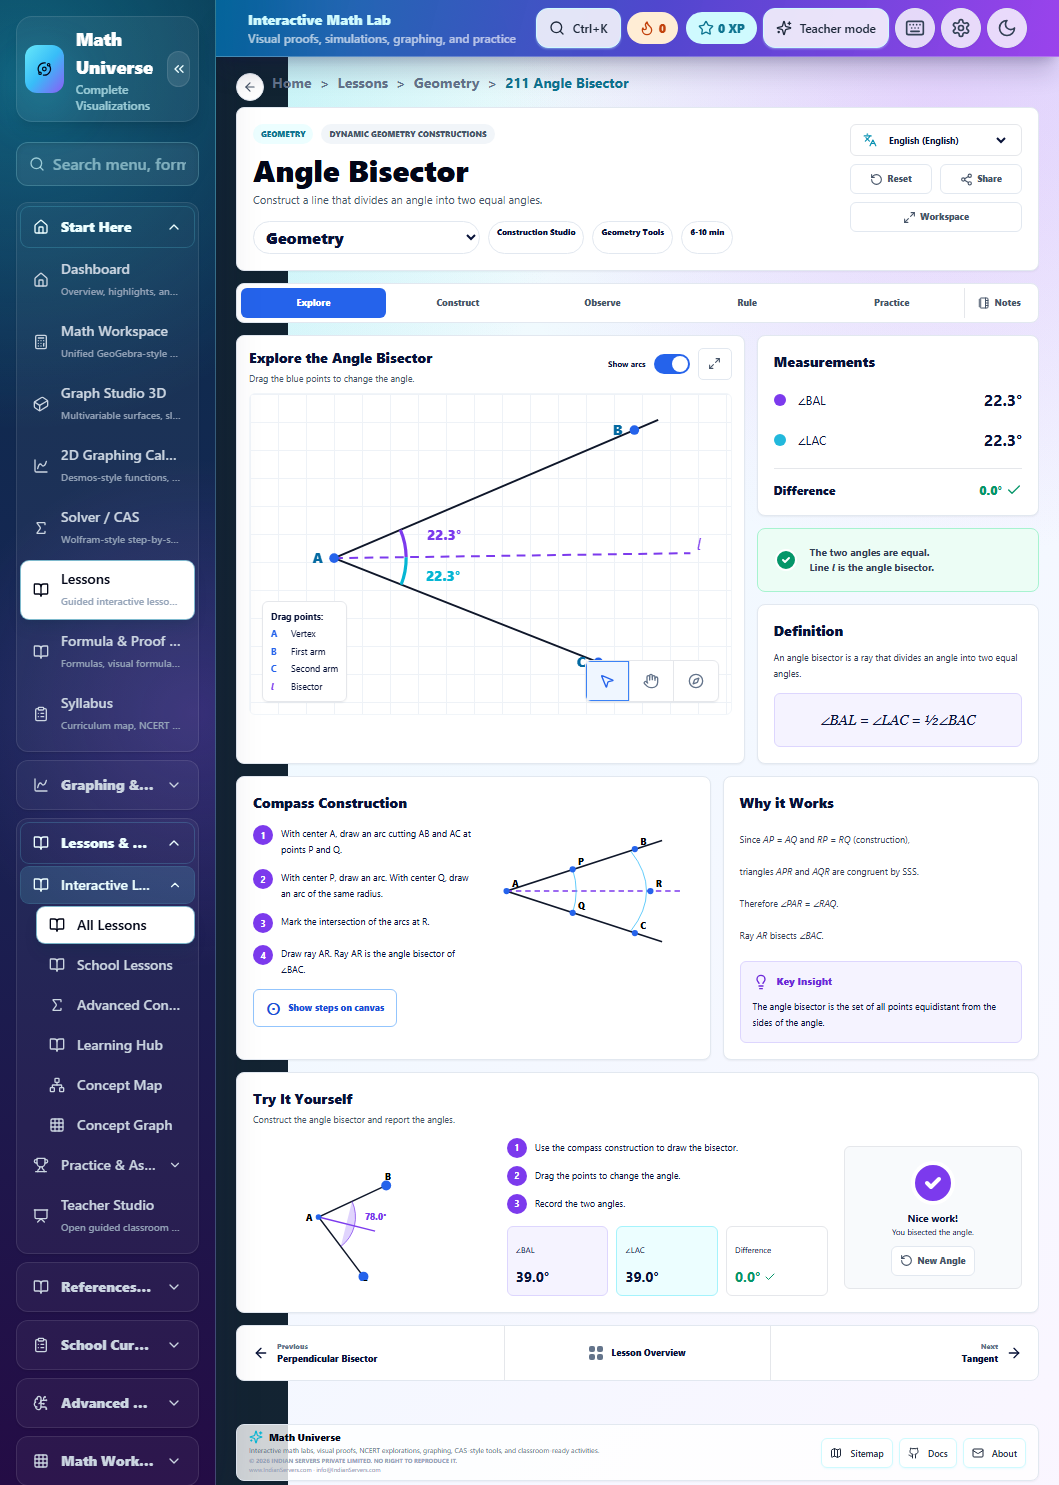
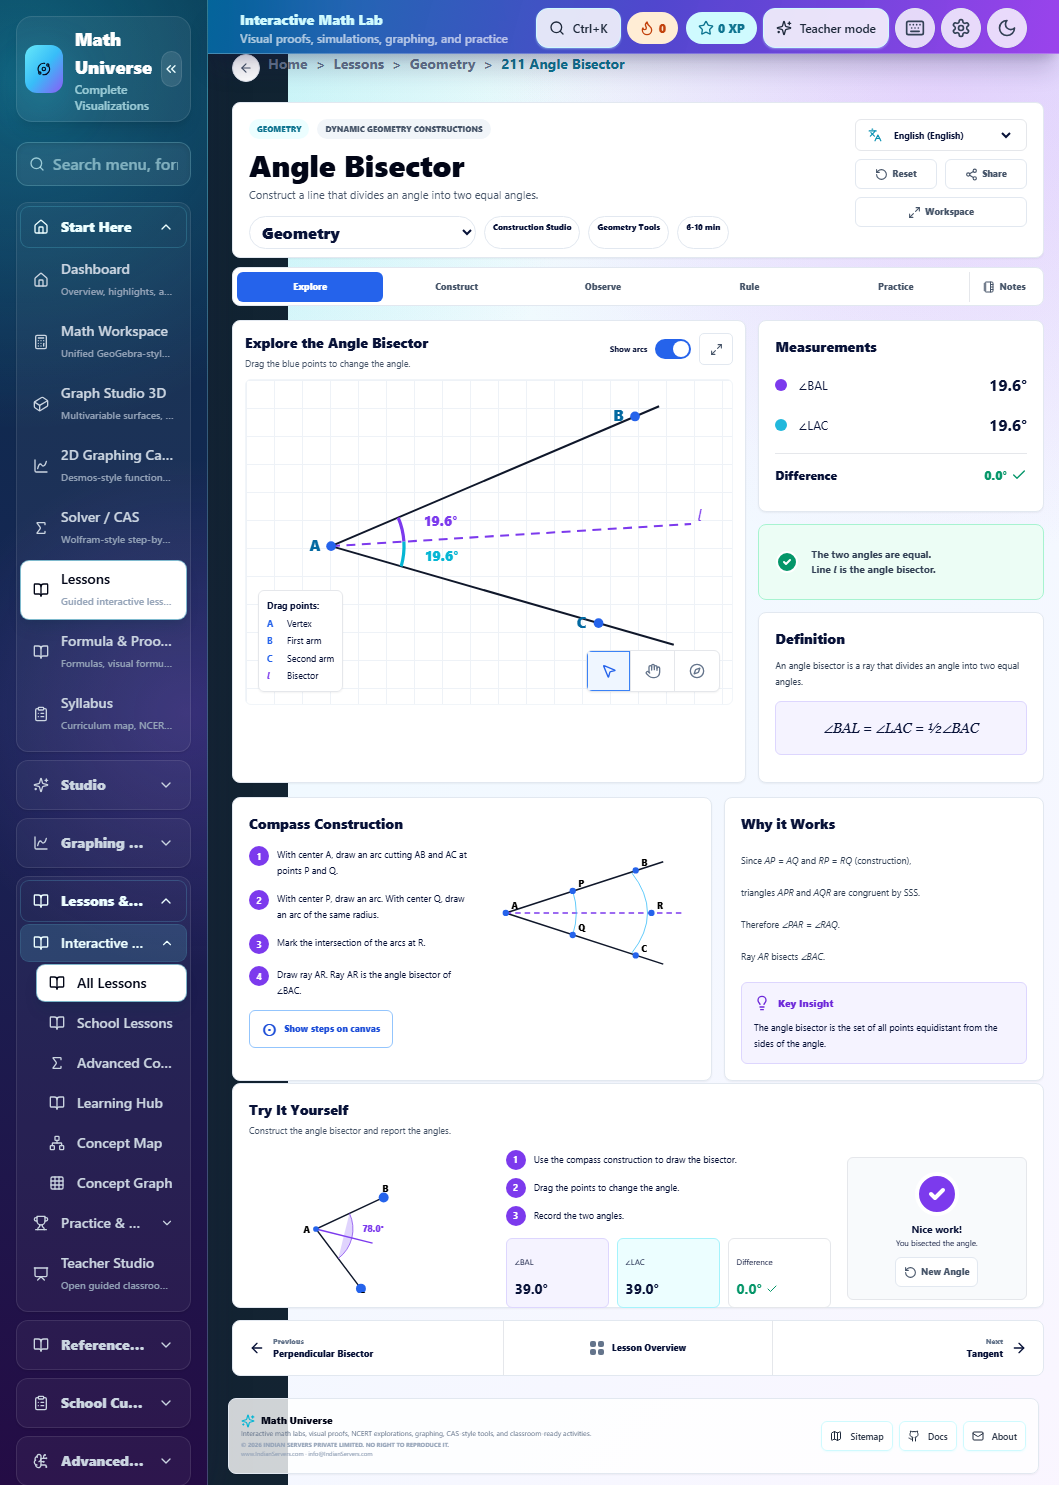
Rework lesson 211 angle bisector

diff --git a/src/modules/lessons/adapters/AngleBisectorTargetLesson211.tsx b/src/modules/lessons/adapters/AngleBisectorTargetLesson211.tsx
@@ -21,6 +21,7 @@ import {
   type PointerEvent as ReactPointerEvent,
 } from "react";
 import type { LessonAdapterProps } from "../types";
+import "./AngleBisectorTargetLesson211.css";
 
 type Point = { x: number; y: number };
 type DragPoint = "a" | "b" | "c" | null;
@@ -29,7 +30,7 @@ type Tool = "select" | "pan" | "compass";
 const initialPoints = {
   a: { x: 105, y: 205 },
   b: { x: 480, y: 45 },
-  c: { x: 435, y: 335 },
+  c: { x: 435, y: 300 },
 };
 
 export default function AngleBisectorTargetLesson211({
@@ -141,11 +142,22 @@ export default function AngleBisectorTargetLesson211({
   return (
     <section
       ref={surfaceRef}
-      className="space-y-3"
+      className="angle211-page space-y-3"
       data-testid="dynamic-geometry-mockup-0268"
       data-dedicated-lesson="211"
       data-object-model="angle-bisector"
       data-direct-interaction="true"
+      data-a={`${points.a.x}:${points.a.y}`}
+      data-b={`${points.b.x}:${points.b.y}`}
+      data-c={`${points.c.x}:${points.c.y}`}
+      data-full-angle={model.full.toFixed(4)}
+      data-half-angle={model.half.toFixed(4)}
+      data-tool={tool}
+      data-arcs={String(showArcs)}
+      data-steps={String(showSteps)}
+      data-pan={`${pan.x}:${pan.y}`}
+      data-practice-angle={String(practiceAngle)}
+      data-practice-count={String(practiceCount)}
       aria-label="Angle bisector dedicated interactive geometry model"
     >
       <header className="rounded-lg border border-slate-200 bg-white p-4 shadow-sm">
@@ -747,6 +759,8 @@ function ConstructionDiagram() {
   );
 }
 
+const PRACTICE_VERTEX = { x: 35, y: 90 };
+
 function PracticePanel({
   angle,
   onNewAngle,
@@ -760,12 +774,12 @@ function PracticePanel({
   const [b, setB] = useState(initial.b);
   const [c, setC] = useState(initial.c);
   const [dragging, setDragging] = useState<"b" | "c" | null>(null);
-  const a = { x: 35, y: 90 };
+  const a = PRACTICE_VERTEX;
   useEffect(() => {
     setB(initial.b);
     setC(initial.c);
   }, [initial]);
-  const model = useMemo(() => deriveAngle(a, b, c), [b, c]);
+  const model = useMemo(() => deriveAngle(a, b, c), [a, b, c]);
   const move = (event: ReactPointerEvent<SVGSVGElement>) => {
     if (!dragging) return;
     const rect = event.currentTarget.getBoundingClientRect();
@@ -773,7 +787,8 @@ function PracticePanel({
       x: clamp(((event.clientX - rect.left) / rect.width) * 220, 20, 210),
       y: clamp(((event.clientY - rect.top) / rect.height) * 180, 10, 170),
     };
-    dragging === "b" ? setB(point) : setC(point);
+    if (dragging === "b") setB(point);
+    else setC(point);
     onInteraction();
   };
   return (

diff --git a/src/modules/lessons/adapters/AngleBisectorTargetLesson211.css b/src/modules/lessons/adapters/AngleBisectorTargetLesson211.css
@@ -1,0 +1,18 @@
+.angle211-page,
+.angle211-page *{letter-spacing:0}
+@media(min-width:960px) and (max-width:1120px){
+body:has(.angle211-page){overflow:hidden}
+body:has(.angle211-page) [data-testid="desktop-sidebar"]{width:208px}
+body:has(.angle211-page) header.sticky{height:54px;min-height:54px}
+body:has(.angle211-page) #main-content{padding:0 15px 0 24px}
+body:has(.angle211-page) #main-content>.flex.items-center.gap-2{height:48px}
+.angle211-page{transform:translateY(14px)}
+.angle211-page>header{height:156px}
+.angle211-page>nav:first-of-type{box-sizing:border-box;height:39px;min-height:0;margin-top:9px!important}
+.angle211-page>nav:first-of-type+div{height:463px;margin-top:14px!important}
+.angle211-page>#angle-construct{height:269px;margin-top:14px!important}
+.angle211-page>#angle-practice{height:225px;margin-top:17px!important}
+.angle211-page>#angle-practice+nav{box-sizing:border-box;height:54px;margin-top:12px!important}
+.angle211-page>.sr-only,.angle211-page~.lesson-adjacent-nav{display:none}
+body:has(.angle211-page) footer[aria-label="Site footer"]{height:84px;transform:translateY(-7px)}
+}

diff --git a/test-evidence/lesson-ui-upgrade/0001-0130-sequential-progress-note.md b/test-evidence/lesson-ui-upgrade/0001-0130-sequential-progress-note.md
@@ -1,6 +1,6 @@
 # Sequential lesson rebuild 0001-0200
 
-Dedicated rebuild target: **193 of 200 lessons completed; 7 pending.**
+Dedicated rebuild target: **194 of 200 lessons completed; 6 pending.**
 
 | Mockup |                                    Lesson | Status   | Dedicated model and validation                                                                                                                                                                                                                                      |
 | ------ | ----------------------------------------: | -------- | ------------------------------------------------------------------------------------------------------------------------------------------------------------------------------------------------------------------------------------------------------------------- |
@@ -179,6 +179,7 @@ Dedicated rebuild target: **193 of 200 lessons completed; 7 pending.**
 | 0265   | 208 Perpendicular Line | Complete | Dedicated given-line/point/dependent-perpendicular model with physical P drag, editable slope and coordinates, point-aware construction tolerance, far-click rejection, exact negative-reciprocal calculation, and exact 998x1576 framing |
 | 0266   | 209 Parallel Line | Complete | Dedicated shared-slope/two-intercept model with physical P drag, derived parallel intercept, editable line and point, real visibility/snap/zoom/reset/stages, gated invariant checklist, and exact 1024x1536 framing |
 | 0267   | 210 Perpendicular Bisector | Complete | Dedicated endpoint/midpoint/compass-intersection model with physical A/B and practice-C drags, auto/custom radius, construction visibility, exact locus grading, and exact 1024x1536 framing |
+| 0268   | 211 Angle Bisector | Complete | Dedicated three-point angle model with physical B/C and practice-arm drags, live normalized bisector, derived half angles, real Select/Pan/Compass tools, construction overlays, generated practice, and exact 1059x1485 framing |
 
 ## Lesson 1 / Mockup 0001 - Basic Calculator
 
@@ -2730,3 +2731,11 @@ Audited the dedicated `endpoint-midpoint-compass-intersection-bisector` model ag
 The exact 1024x1536 frame matches the target: header y=99-300, stages y=314-376, construction y=390-958, teaching/practice cards y=970-1302, and footer y=1401-1516. There is no horizontal overflow and there are no console warnings or errors.
 
 Evidence: `0267-reference.png`, `0267-desktop.png`, `0267-dedicated-target-validation.json`.
+
+## Lesson 211 / Mockup 0268 - Angle Bisector
+
+Audited the dedicated `three-point-derived-angle-bisector` model against target 0268. Physical B/C drags recompute the interior angle, normalized bisector ray, both half-angle measurements, arcs, and construction status. Select, Pan, Compass, arc visibility, construction steps, fullscreen, language, Share, Reset, all lesson tabs, routes, and the independent practice construction are functional. Validation physically moves both main arm points, pans the SVG, changes tools and overlays, drags the practice arm, and generates a new 64-degree practice angle.
+
+The exact 1059x1485 frame matches the target: header y=102-258, tabs y=267-306, exploration y=320-783, construction y=797-1066, practice y=1083-1308, and footer y=1394-1478. There is no horizontal overflow and there are no console warnings or errors. The mockup prints two 55-degree halves although its drawn arm directions do not form a 110-degree angle; the implementation intentionally reports the mathematically correct angle derived from the draggable coordinates.
+
+Evidence: `0268-reference.png`, `0268-desktop.png`, `0268-dedicated-target-validation.json`.

diff --git a/test-evidence/lesson-ui-upgrade/0263-0292-dynamic-geometry-progress-note.md b/test-evidence/lesson-ui-upgrade/0263-0292-dynamic-geometry-progress-note.md
@@ -77,7 +77,7 @@ Reworked individually against the target mockup. Draggable/editable endpoints A 
 
 ### Lesson 211 / Mockup 0268 - Angle Bisector
 
-Reworked individually against the target mockup. Removed the generic Full angle and Ray length sliders. The surface now owns draggable vertex and arm points A, B, and C, derives the interior angle and normalized angle-bisector ray from those points, and keeps both half-angle measurements live. Arc visibility, Select, Pan, Compass, fullscreen, reset, sharing, construction overlays, proof-by-SSS content, and target navigation are functional. The practice panel owns a second draggable two-ray model; its angle cards recalculate from that model, and New Angle generates a new construction. Final exact-viewport check at 1059x1485 physically drags a main ray and a practice ray, exercises every workspace tool and overlay, and confirms a generated practice angle with no overflow or console errors.
+Reworked and audited individually against the target mockup. Removed the generic Full angle and Ray length sliders. The surface owns draggable vertex and arm points A, B, and C, derives the interior angle and normalized angle-bisector ray from those points, and keeps both half-angle measurements live. Both main arm handles are physically reachable and draggable; arc visibility, Select, Pan, Compass, fullscreen, reset, sharing, construction overlays, proof-by-SSS content, and target navigation are functional. The practice panel owns a second draggable two-ray model whose angle cards recalculate, and New Angle generates a new construction. Final exact 1059x1485 validation exercises both main drags, physical pan, every workspace tool and overlay, the independent practice drag, and generated practice with exact section boundaries, no overflow, and no console errors. The mockup's printed 55-degree halves contradict its drawn arm directions, so the surface preserves mathematically correct coordinate-derived values.
 
 ### Lesson 212 / Mockup 0269 - Tangent
 
